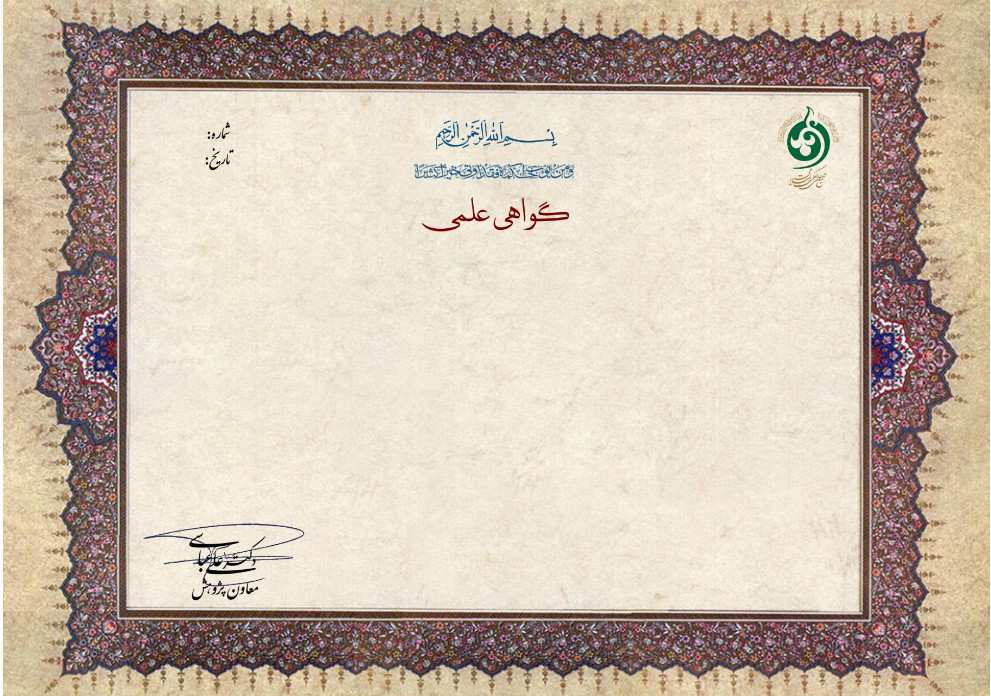
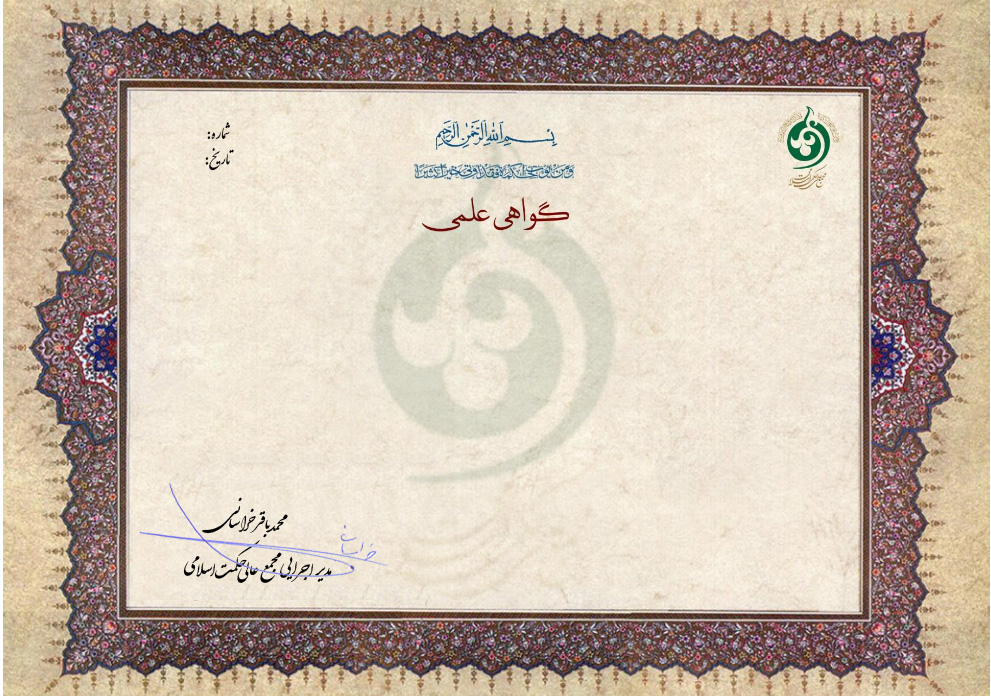
da

diff --git a/OfficeHelpper/WordService.cs b/OfficeHelpper/WordService.cs
@@ -69,28 +69,28 @@ namespace Infrastructure.Word
                     page.Content().PaddingHorizontal(100).PaddingVertical(30).Column(column =>
                     {
                         // --- دو تاریخ بالا سمت چپ ---
-                        column.Item().PaddingLeft(5).PaddingTop(52)
+                        column.Item().PaddingLeft(45).PaddingTop(73)
                             .ScaleToFit()
                             .AlignLeft()
                             .Text(date1)
                             .FontFamily(fontPath)
-                            .FontSize(17)
+                            .FontSize(24)
                             .FontColor("#000000");
 
-                        column.Item().PaddingLeft(5).PaddingTop(-10)
+                        column.Item().PaddingLeft(45).PaddingTop(-10)
                             .ScaleToFit()
                             .AlignLeft()
                             .Text(date2)
                             .FontFamily(fontPath)
-                            .FontSize(17)
+                            .FontSize(24)
                             .FontColor("#000000");
 
                         // --- متن معرفی ---
-                        column.Item().PaddingTop(70).PaddingHorizontal(60)
+                        column.Item().PaddingTop(55).PaddingHorizontal(60)
                             .ScaleToFit()
                             .Text(text =>
                             {
-                                text.DefaultTextStyle(x => x.FontFamily(fontPath).FontSize(24));
+                                text.DefaultTextStyle(x => x.FontFamily(fontPath).FontSize(34));
                                 text.Span(lineIntroductionUser).FontColor("#000000");
                                 text.Span(lineIntroductionUser2).FontColor("#065E47");
                                 text.Span(lineIntroductionUser3).FontColor("#000000");
@@ -104,7 +104,7 @@ namespace Infrastructure.Word
                             .ScaleToFit()
                             .Text(lineTitleOfMeet)
                             .FontFamily(fontPath)
-                            .FontSize(29)
+                            .FontSize(40)
                             .FontColor("#065E47")
                             .AlignCenter();
 
@@ -114,7 +114,7 @@ namespace Infrastructure.Word
                             .ScaleToFit()
                             .Text(text =>
                             {
-                                text.DefaultTextStyle(x => x.FontFamily(fontPath).FontSize(24));
+                                text.DefaultTextStyle(x => x.FontFamily(fontPath).FontSize(34));
                                 text.Span(lineDateTitle).FontColor("#000000");
                                 text.Span(lineDateValue).FontColor("#FB2C36");
                                 text.Span(" برگزار شد، به عنوان ").FontColor("#000000");
@@ -129,7 +129,7 @@ namespace Infrastructure.Word
                             .ScaleToFit()
                             .Text(line4)
                             .FontFamily(fontPath)
-                            .FontSize(24)
+                            .FontSize(34)
                             .FontColor("#000000")
                             .AlignCenter()
                             .DirectionFromRightToLeft();

diff --git a/Application/Usecase/UserUseCase.cs b/Application/Usecase/UserUseCase.cs
@@ -1279,13 +1279,23 @@ namespace Application.Usecase
                 }
                 if (!_db.CertificateTBLs.Any(e => e.IDUserTBLToMeetingTBL == um.ID))
                 {
-                    Statics.Log("GenerateCertificateUseCase", $"{um.ID}");
-                    outputPort.Handle(new GenericResponse<GenerateCertificateResponse>(new GenerateCertificateResponse
+                    _db.CertificateTBLs.Add(new CertificateTBL
                     {
-                        Message = "هنوز گواهینامه برای شما صادر نشده است!",
-                        Status = 404,
-                    }));
-                    return;
+                        IDUserTBLToMeetingTBL = um.ID,
+                        Status = MainEntity_Status.CERT_FULL,
+                        Type = MainEntity_Types.CERT_NORMAL,
+                        Title = "گواهینامه حضور در جلسه",
+
+                        Validation = checkCert.Item1
+                    });
+                    _db.SaveChanges();
+                    //Statics.Log("GenerateCertificateUseCase", $"{um.ID}");
+                    //outputPort.Handle(new GenericResponse<GenerateCertificateResponse>(new GenerateCertificateResponse
+                    //{
+                    //    Message = "هنوز گواهینامه برای شما صادر نشده است!",
+                    //    Status = 404,
+                    //}));
+                    //return;
                 }
                 var cert = await _db.CertificateTBLs.FirstOrDefaultAsync(e => e.IDUserTBLToMeetingTBL == um.ID);
                 cert.NationalCode = message.NationalCode;
